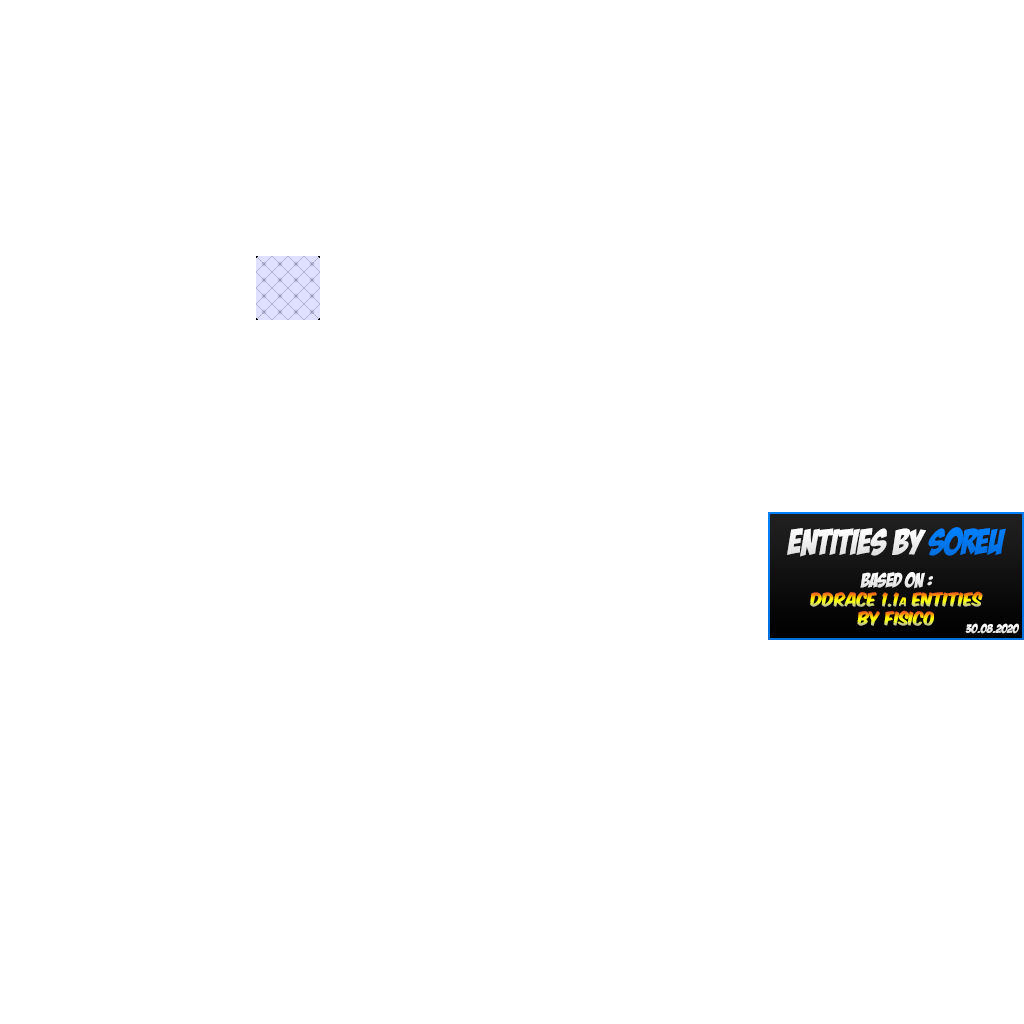
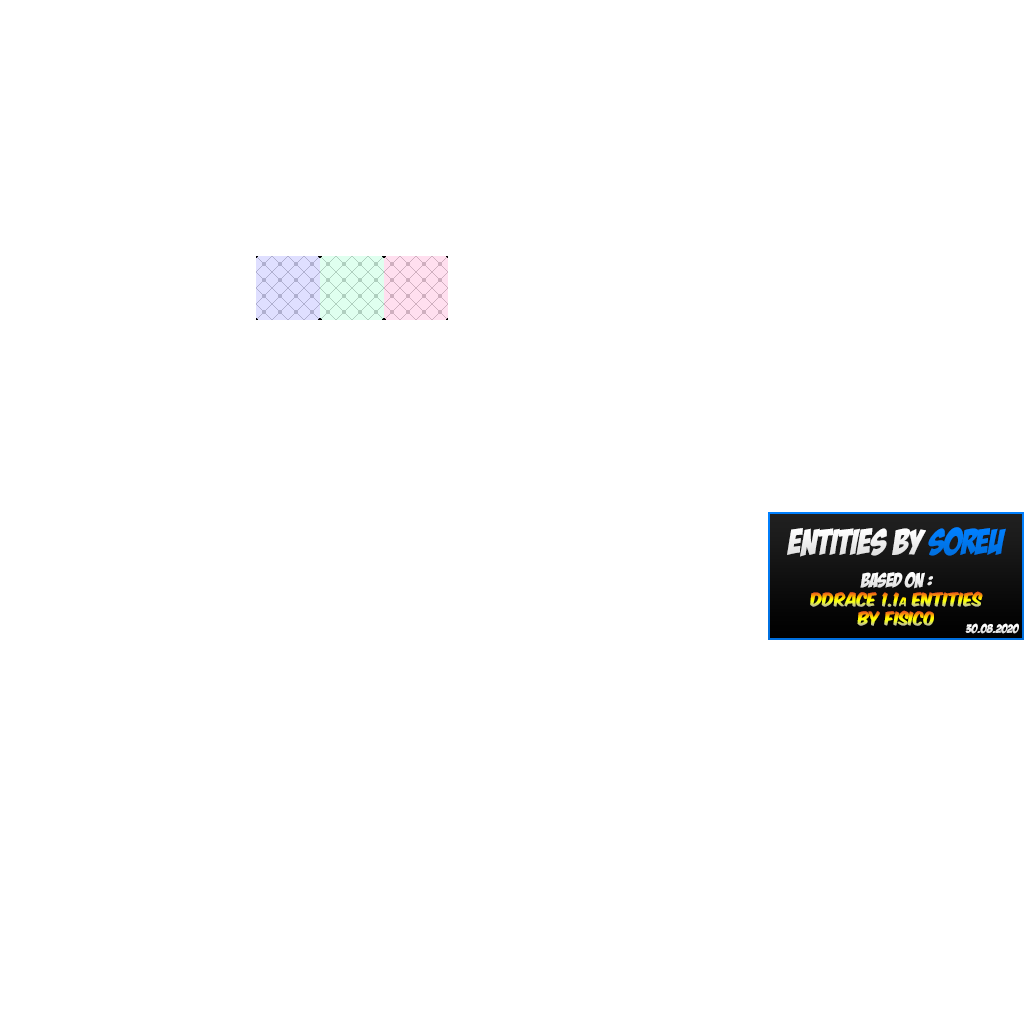
Add new tune lock tiles

Changed region(s): [[0.3125, 0.25, 0.4375, 0.3125]]

diff --git a/src/game/server/entities/character.cpp b/src/game/server/entities/character.cpp
@@ -96,6 +96,7 @@ bool CCharacter::Spawn(CPlayer *pPlayer, vec2 Pos)
 
 	m_TuneZone = Collision()->IsTune(Collision()->GetMapIndex(Pos));
 	m_TuneZoneOld = -1; // no zone leave msg on spawn
+	m_TuneZoneOverride = -1;
 	m_NeededFaketuning = 0; // reset fake tunings on respawn and send the client
 	SendZoneMsgs(); // we want a entermessage also on spawn
 	GameServer()->SendTuningParams(m_pPlayer->GetCid(), m_TuneZone);
@@ -257,7 +258,7 @@ void CCharacter::HandleJetpack()
 	{
 		if(m_Core.m_Jetpack)
 		{
-			float Strength = GetTuning(m_TuneZone)->m_JetpackStrength;
+			float Strength = GetTuning(GetOverriddenTuneZone())->m_JetpackStrength;
 			TakeDamage(Direction * -1.0f * (Strength / 100.0f / 6.11f), 0, m_pPlayer->GetCid(), m_Core.m_ActiveWeapon);
 		}
 	}
@@ -302,8 +303,8 @@ void CCharacter::HandleNinja()
 		m_Core.m_Vel = m_Core.m_Ninja.m_ActivationDir * g_pData->m_Weapons.m_Ninja.m_Velocity;
 		vec2 OldPos = m_Pos;
 		vec2 GroundElasticity = vec2(
-			GetTuning(m_TuneZone)->m_GroundElasticityX,
-			GetTuning(m_TuneZone)->m_GroundElasticityY);
+			GetTuning(GetOverriddenTuneZone())->m_GroundElasticityX,
+			GetTuning(GetOverriddenTuneZone())->m_GroundElasticityY);
 
 		Collision()->MoveBox(&m_Core.m_Pos, &m_Core.m_Vel, vec2(GetProximityRadius(), GetProximityRadius()), GroundElasticity);
 
@@ -514,7 +515,7 @@ void CCharacter::FireWeapon()
 			else
 				Dir = vec2(0.f, -1.f);
 
-			float Strength = GetTuning(m_TuneZone)->m_HammerStrength;
+			float Strength = GetTuning(GetOverriddenTuneZone())->m_HammerStrength;
 
 			vec2 Temp = pTarget->m_Core.m_Vel + normalize(Dir + vec2(0.f, -1.1f)) * 10.0f;
 			Temp = ClampVel(pTarget->m_MoveRestrictions, Temp);
@@ -531,7 +532,7 @@ void CCharacter::FireWeapon()
 		// if we Hit anything, we have to wait for the reload
 		if(Hits)
 		{
-			float FireDelay = GetTuning(m_TuneZone)->m_HammerHitFireDelay;
+			float FireDelay = GetTuning(GetOverriddenTuneZone())->m_HammerHitFireDelay;
 			m_ReloadTimer = FireDelay * Server()->TickSpeed() / 1000;
 		}
 	}
@@ -541,7 +542,7 @@ void CCharacter::FireWeapon()
 	{
 		if(!m_Core.m_Jetpack || !m_pPlayer->m_NinjaJetpack || m_Core.m_HasTelegunGun)
 		{
-			int Lifetime = (int)(Server()->TickSpeed() * GetTuning(m_TuneZone)->m_GunLifetime);
+			int Lifetime = (int)(Server()->TickSpeed() * GetTuning(GetOverriddenTuneZone())->m_GunLifetime);
 
 			new CProjectile(
 				GameWorld(),
@@ -563,7 +564,7 @@ void CCharacter::FireWeapon()
 
 	case WEAPON_SHOTGUN:
 	{
-		float LaserReach = GetTuning(m_TuneZone)->m_LaserReach;
+		float LaserReach = GetTuning(GetOverriddenTuneZone())->m_LaserReach;
 
 		new CLaser(&GameServer()->m_World, m_Pos, Direction, LaserReach, m_pPlayer->GetCid(), WEAPON_SHOTGUN);
 		GameServer()->CreateSound(m_Pos, SOUND_SHOTGUN_FIRE, TeamMask()); // NOLINT(clang-analyzer-unix.Malloc)
@@ -572,7 +573,7 @@ void CCharacter::FireWeapon()
 
 	case WEAPON_GRENADE:
 	{
-		int Lifetime = (int)(Server()->TickSpeed() * GetTuning(m_TuneZone)->m_GrenadeLifetime);
+		int Lifetime = (int)(Server()->TickSpeed() * GetTuning(GetOverriddenTuneZone())->m_GrenadeLifetime);
 
 		new CProjectile(
 			GameWorld(),
@@ -593,7 +594,7 @@ void CCharacter::FireWeapon()
 
 	case WEAPON_LASER:
 	{
-		float LaserReach = GetTuning(m_TuneZone)->m_LaserReach;
+		float LaserReach = GetTuning(GetOverriddenTuneZone())->m_LaserReach;
 
 		new CLaser(GameWorld(), m_Pos, Direction, LaserReach, m_pPlayer->GetCid(), WEAPON_LASER);
 		GameServer()->CreateSound(m_Pos, SOUND_LASER_FIRE, TeamMask()); // NOLINT(clang-analyzer-unix.Malloc)
@@ -619,7 +620,7 @@ void CCharacter::FireWeapon()
 	if(!m_ReloadTimer)
 	{
 		float FireDelay;
-		GetTuning(m_TuneZone)->Get(offsetof(CTuningParams, m_HammerFireDelay) / sizeof(CTuneParam) + m_Core.m_ActiveWeapon, &FireDelay);
+		GetTuning(GetOverriddenTuneZone())->Get(offsetof(CTuningParams, m_HammerFireDelay) / sizeof(CTuneParam) + m_Core.m_ActiveWeapon, &FireDelay);
 		m_ReloadTimer = FireDelay * Server()->TickSpeed() / 1000;
 	}
 }
@@ -1308,8 +1309,7 @@ void CCharacter::Snap(int SnappingClient)
 	pDDNetCharacter->m_TargetX = m_Core.m_Input.m_TargetX;
 	pDDNetCharacter->m_TargetY = m_Core.m_Input.m_TargetY;
 
-	// -1 is the default value, SnapNewItem zeroes the object, so it would incorrectly become 0
-	pDDNetCharacter->m_TuneZoneOverride = -1;
+	pDDNetCharacter->m_TuneZoneOverride = m_TuneZoneOverride;
 }
 
 void CCharacter::PostSnap()
@@ -2048,13 +2048,40 @@ void CCharacter::HandleTiles(int Index)
 void CCharacter::HandleTuneLayer()
 {
 	m_TuneZoneOld = m_TuneZone;
-	int CurrentIndex = Collision()->GetMapIndex(m_Pos);
-	m_TuneZone = Collision()->IsTune(CurrentIndex);
 
-	if(m_TuneZone)
-		m_Core.m_Tuning = TuningList()[m_TuneZone]; // throw tunings from specific zone into gamecore
+	int CurrentIndex = Collision()->GetMapIndex(m_Pos);
+	int Type = Collision()->GetTuneType(CurrentIndex);
+	int Number = Collision()->GetTuneNumber(CurrentIndex);
+
+	if(m_TuneZoneOverride == -1)
+	{
+		m_TuneZone = Collision()->IsTune(CurrentIndex);
+	}
 	else
-		m_Core.m_Tuning = *Tuning();
+	{
+		m_TuneZone = 0;
+	}
+
+	if(Type == TILE_TUNE_LOCK_ENABLE)
+	{
+		m_TuneZoneOverride = Number;
+	}
+	else if(Type == TILE_TUNE_LOCK_DISABLE)
+	{
+		m_TuneZoneOverride = -1;
+	}
+
+	if(m_TuneZoneOverride != -1)
+	{
+		m_Core.m_Tuning = TuningList()[m_TuneZoneOverride];
+	}
+	else
+	{
+		if(m_TuneZone)
+			m_Core.m_Tuning = TuningList()[m_TuneZone]; // throw tunings from specific zone into gamecore
+		else
+			m_Core.m_Tuning = *Tuning();
+	}
 
 	if(m_TuneZone != m_TuneZoneOld) // don't send tunigs all the time
 	{

diff --git a/src/game/client/prediction/entities/character.cpp b/src/game/client/prediction/entities/character.cpp
@@ -969,11 +969,37 @@ void CCharacter::HandleTiles(int Index)
 
 void CCharacter::HandleTuneLayer()
 {
-	int CurrentIndex = Collision()->GetMapIndex(m_Pos);
-	SetTuneZone(GameWorld()->m_WorldConfig.m_UseTuneZones ? Collision()->IsTune(CurrentIndex) : 0);
+	if(!GameWorld()->m_WorldConfig.m_UseTuneZones)
+	{
+		SetTuneZone(0);
+	}
+	else
+	{
+		int CurrentIndex = Collision()->GetMapIndex(m_Pos);
+		int Type = Collision()->GetTuneType(CurrentIndex);
+		int Number = Collision()->GetTuneNumber(CurrentIndex);
 
-	if(m_IsLocal)
-		GameWorld()->m_Core.m_aTuning[g_Config.m_ClDummy] = *GetTuning(GetOverriddenTuneZone()); // throw tunings (from specific zone if in a tunezone) into gamecore if the character is local
+		if(m_TuneZoneOverride == -1)
+		{
+			SetTuneZone(Collision()->IsTune(CurrentIndex));
+		}
+		else
+		{
+			SetTuneZone(0);
+		}
+
+		if(Type == TILE_TUNE_LOCK_ENABLE)
+		{
+			m_TuneZoneOverride = Number;
+		}
+		if(Type == TILE_TUNE_LOCK_DISABLE)
+		{
+			m_TuneZoneOverride = -1;
+		}
+	}
+
+	if(m_IsLocal && m_TuneZoneOverride == -1)
+		GameWorld()->m_Core.m_aTuning[g_Config.m_ClDummy] = *GetTuning(m_TuneZone); // throw tunings (from specific zone if in a tunezone) into gamecore if the character is local
 	m_Core.m_Tuning = *GetTuning(GetOverriddenTuneZone());
 }
 
@@ -1379,7 +1405,15 @@ void CCharacter::Read(CNetObj_Character *pChar, CNetObj_DDNetCharacter *pExtende
 	m_AttackTick = pChar->m_AttackTick;
 	m_LastSnapWeapon = pChar->m_Weapon;
 
-	SetTuneZone(GameWorld()->m_WorldConfig.m_UseTuneZones ? Collision()->IsTune(Collision()->GetMapIndex(m_Pos)) : 0);
+	if(GameWorld()->m_WorldConfig.m_UseTuneZones)
+	{
+		if(m_TuneZoneOverride == -1)
+			SetTuneZone(Collision()->IsTune(Collision()->GetMapIndex(m_Pos)));
+	}
+	else
+	{
+		SetTuneZone(0);
+	}
 
 	// set the current weapon
 	if(pChar->m_Weapon != WEAPON_NINJA)

diff --git a/src/game/editor/explanations.cpp b/src/game/editor/explanations.cpp
@@ -195,6 +195,14 @@ const char *CEditor::ExplainDDNet(int Tile, int Layer)
 		if(Layer == LAYER_TUNE)
 			return "TUNE ZONE: Area where defined tunes work.";
 		break;
+	case TILE_TUNE_LOCK_ENABLE:
+		if(Layer == LAYER_TUNE)
+			return "TUNE LOCK: Lock the tune zone values of given number on the player.";
+		break;
+	case TILE_TUNE_LOCK_DISABLE:
+		if(Layer == LAYER_TUNE)
+			return "TUNE LOCK OFF: Unlock the tune zone values on the player.";
+		break;
 	case TILE_OLDLASER:
 		if(Layer == LAYER_GAME || Layer == LAYER_FRONT)
 			return "GLOBAL OLD SHOTGUN: Shotgun drags others always towards the shooter, even after having bounced. Shooter can't hit themselves. Place only one tile somewhere on the map.";

diff --git a/src/game/collision.cpp b/src/game/collision.cpp
@@ -730,13 +730,38 @@ int CCollision::IsSpeedup(int Index) const
 	return 0;
 }
 
-int CCollision::IsTune(int Index) const
+int CCollision::GetTuneNumber(int Index) const
 {
 	if(Index < 0 || !m_pTune)
 		return 0;
 
 	if(m_pTune[Index].m_Type)
 		return m_pTune[Index].m_Number;
+
+	return 0;
+}
+
+int CCollision::GetTuneType(int Index) const
+{
+	if(Index < 0 || !m_pTune)
+		return 0;
+
+	if(m_pTune[Index].m_Type)
+		return m_pTune[Index].m_Type;
+
+	return 0;
+}
+
+int CCollision::IsTune(int Index) const
+{
+	if(Index < 0 || !m_pTune)
+		return 0;
+
+	if(m_pTune[Index].m_Type == TILE_TUNE)
+	{
+		if(m_pTune[Index].m_Number)
+			return m_pTune[Index].m_Number;
+	}
 
 	return 0;
 }

diff --git a/src/game/server/entities/character.h b/src/game/server/entities/character.h
@@ -206,6 +206,7 @@ public:
 	bool m_FrozenLastTick;
 	int m_TuneZone;
 	int m_TuneZoneOld;
+	int m_TuneZoneOverride;
 	int m_PainSoundTimer;
 	int m_LastMove;
 	int m_StartTime;
@@ -257,6 +258,8 @@ public:
 	bool HasTelegunGun() const { return m_Core.m_HasTelegunGun; }
 	bool HasTelegunGrenade() const { return m_Core.m_HasTelegunGrenade; }
 	bool HasTelegunLaser() const { return m_Core.m_HasTelegunLaser; }
+
+	int GetOverriddenTuneZone() const { return m_TuneZoneOverride < 0 ? m_TuneZone : m_TuneZoneOverride; }
 
 	bool HammerHitDisabled() const { return m_Core.m_HammerHitDisabled; }
 	bool ShotgunHitDisabled() const { return m_Core.m_ShotgunHitDisabled; }

diff --git a/src/game/server/save.cpp b/src/game/server/save.cpp
@@ -73,6 +73,7 @@ void CSaveTee::Save(CCharacter *pChr, bool AddPenalty)
 
 	m_TuneZone = pChr->m_TuneZone;
 	m_TuneZoneOld = pChr->m_TuneZoneOld;
+	m_TuneZoneOverride = pChr->m_TuneZoneOverride;
 
 	if(pChr->m_StartTime)
 		m_Time = pChr->Server()->Tick() - pChr->m_StartTime;
@@ -185,6 +186,7 @@ bool CSaveTee::Load(CCharacter *pChr, int Team, bool IsSwap)
 
 	pChr->m_TuneZone = m_TuneZone;
 	pChr->m_TuneZoneOld = m_TuneZoneOld;
+	pChr->m_TuneZoneOverride = m_TuneZoneOverride;
 
 	if(m_Time)
 		pChr->m_StartTime = pChr->Server()->Tick() - m_Time;

diff --git a/src/game/server/player.cpp b/src/game/server/player.cpp
@@ -257,7 +257,10 @@ void CPlayer::Tick()
 
 	m_TuneZoneOld = m_TuneZone; // determine needed tunings with viewpos
 	int CurrentIndex = GameServer()->Collision()->GetMapIndex(m_ViewPos);
-	m_TuneZone = GameServer()->Collision()->IsTune(CurrentIndex);
+	if(m_pCharacter)
+		m_TuneZone = m_pCharacter->GetOverriddenTuneZone();
+	else
+		m_TuneZone = GameServer()->Collision()->IsTune(CurrentIndex);
 
 	if(m_TuneZone != m_TuneZoneOld) // don't send tunings all the time
 	{

diff --git a/src/game/client/gameclient.cpp b/src/game/client/gameclient.cpp
@@ -3168,7 +3168,7 @@ void CGameClient::UpdatePrediction()
 		}
 		else
 		{
-			// if we have processed what we need, and the tuning is still wrong due to out of order messege
+			// if we have processed what we need, and the tuning is still wrong due to out of order message
 			// fix our tuning by using the current one
 			m_GameWorld.TuningList()[TuneZone] = m_aTuning[g_Config.m_ClDummy];
 			m_aExpectingTuningSince[g_Config.m_ClDummy] = 0;

diff --git a/src/game/collision.h b/src/game/collision.h
@@ -92,6 +92,8 @@ public:
 	int IsTeleportHook(int Index) const;
 	int IsTeleCheckpoint(int Index) const;
 	int IsSpeedup(int Index) const;
+	int GetTuneNumber(int Index) const;
+	int GetTuneType(int Index) const;
 	int IsTune(int Index) const;
 	void GetSpeedup(int Index, vec2 *pDir, int *pForce, int *pMaxSpeed, int *pType) const;
 	int GetSwitchType(int Index) const;

diff --git a/src/game/server/gamecontext.cpp b/src/game/server/gamecontext.cpp
@@ -939,7 +939,7 @@ void CGameContext::SendTuningParams(int ClientId, int Zone)
 			{
 				if(m_apPlayers[i]->GetCharacter())
 				{
-					if(m_apPlayers[i]->GetCharacter()->m_TuneZone == Zone)
+					if(m_apPlayers[i]->GetCharacter()->GetOverriddenTuneZone() == Zone)
 						SendTuningParams(i, Zone);
 				}
 				else if(m_apPlayers[i]->m_TuneZone == Zone)

diff --git a/src/game/mapitems.cpp b/src/game/mapitems.cpp
@@ -124,7 +124,7 @@ bool IsSwitchTileDelayUsed(int Index)
 
 bool IsValidTuneTile(int Index)
 {
-	return Index == TILE_TUNE;
+	return Index == TILE_TUNE || Index == TILE_TUNE_LOCK_ENABLE || Index == TILE_TUNE_LOCK_DISABLE;
 }
 
 bool IsValidEntity(int Index)

diff --git a/src/game/mapitems.h b/src/game/mapitems.h
@@ -147,6 +147,8 @@ enum
 	TILE_THROUGH_ALL,
 	TILE_THROUGH_DIR,
 	TILE_TUNE,
+	TILE_TUNE_LOCK_ENABLE,
+	TILE_TUNE_LOCK_DISABLE,
 	TILE_OLDLASER = 71,
 	TILE_NPC,
 	TILE_EHOOK,
